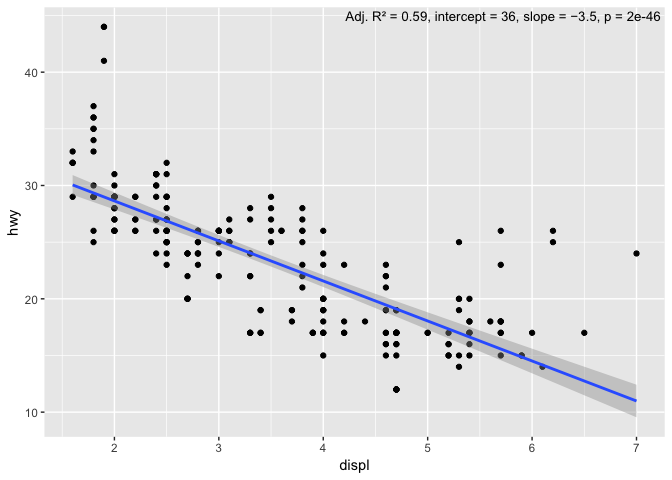
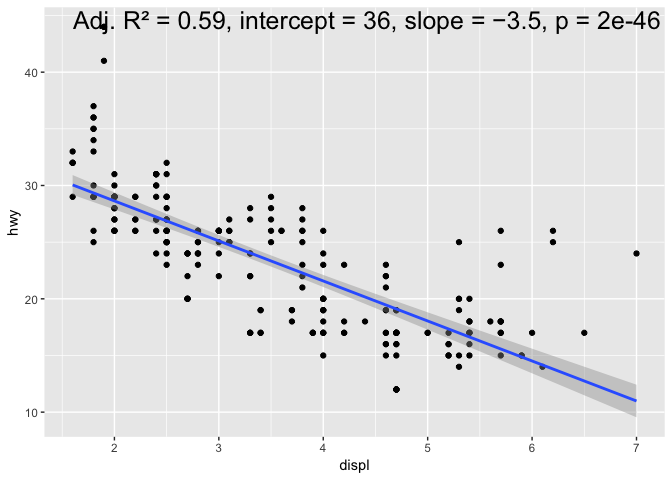
Add glue_exp argument allowing customised annotation text

Changed region(s): [[0.0938, 0.0, 1.0, 0.0625]]

diff --git a/README.md b/README.md
@@ -37,9 +37,7 @@ ggplot(mpg, aes(x = displ, y = hwy, colour = class)) +
 
 <img src="man/figures/README-unnamed-chunk-2-1.png" width="100%" />
 
-If you want to facet the plot, the description can be fixed in the upper
-right corner with `facet_mode = TRUE`. Multiple groups in each facet are
-not supported.
+Faceting is also supported.
 
 ``` r
 ggplot(mpg, aes(x = displ, y = hwy)) +
@@ -47,6 +45,26 @@ ggplot(mpg, aes(x = displ, y = hwy)) +
   geom_smooth(method = "lm") +
   geom_lmannotate(facet_mode = TRUE) +
   facet_wrap(~ class)
+#> Warning: Ignoring unknown parameters: facet_mode
 ```
 
 <img src="man/figures/README-unnamed-chunk-3-1.png" width="100%" />
+
+# Customising the annotation text
+
+The annotation can be changed from the default by setting the `glue_exp`
+argument to `geom_lmannotate()`, which will be parsed with the `glue()`
+function from the [glue](https://glue.tidyverse.org) package. This
+allows interpolation of R variables and expressions. The linear model
+object (the output of `lm()`) is available inside the glue expression as
+the variable `model`. For example:
+
+``` r
+ggplot(mpg, aes(x = displ, y = hwy, colour = trans)) +
+  geom_point() +
+  geom_smooth(method = "lm") +
+  geom_lmannotate(glue_exp = "Max residual: {signif(max(model$residuals), 2)}")
+#> Warning in qt((1 - level)/2, df): NaNs produced
+```
+
+<img src="man/figures/README-unnamed-chunk-4-1.png" width="100%" />
